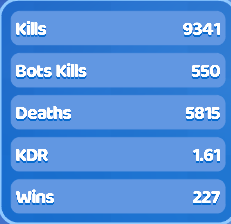
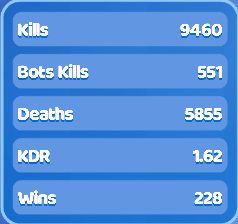
Added kps, updated Bam, Waris

Changed region(s): [[0.0, 0.0, 1.0, 1.0]]

diff --git a/index.html b/index.html
@@ -30,11 +30,11 @@
             <div class="number color2">2.</div>
             <div class="box color2"><a href="Images/Screenshots/Waris Ja.png" class="lightbox_trigger"><i class="fas fa-camera"></i></a></div>
             <div class="name color2">Waris Ja</div>
-            <div class="box color2">2.92</div>
-            <div class="box color2">25,143</div>
-            <div class="box color2">411</div>
-            <div class="box color2">8,621</div>
-            <div class="box color2">2,028</div>
+            <div class="box color2">3.00</div>
+            <div class="box color2">29,276</div>
+            <div class="box color2">421</div>
+            <div class="box color2">9,771</div>
+            <div class="box color2">2,335</div>
           
             <div class="number color1">3.</div>
             <div class="box color1"><a href="Images/Screenshots/Alexander.png" class="lightbox_trigger"><i class="fas fa-camera"></i></a></div>
@@ -127,178 +127,187 @@
             <div class="box color2">859</div>
 
             <div class="number color1">13.</div>
-            <div class="box color1"><a href="Images/Screenshots/Player3480.png" class="lightbox_trigger"><i class="fas fa-camera"></i></a></div>
-            <div class="name color1">Player3480</div>
-            <div class="box color1">1.85</div>
-            <div class="box color1">13,223</div>
-            <div class="box color1">501</div>
-            <div class="box color1">7,166</div>
-            <div class="box color1">654</div>
+            <div class="box color1"><a href="Images/Screenshots/kps.png" class="lightbox_trigger"><i class="fas fa-camera"></i></a></div>
+            <div class="name color1">kps</div>
+            <div class="box color1">1.93</div>
+            <div class="box color1">11,613</div>
+            <div class="box color1">141</div>
+            <div class="box color1">6,007</div>
+            <div class="box color1">770</div>
 
             <div class="number color2">14.</div>
-            <div class="box color2"><a href="Images/Screenshots/Kolider.png" class="lightbox_trigger"><i class="fas fa-camera"></i></a></div>
-            <div class="name color2">Kolider</div>
-            <div class="box color2">1.79</div>
-            <div class="box color2">8,020</div>
-            <div class="box color2">2,282</div>
-            <div class="box color2">4,490</div>
-            <div class="box color2">728</div>
+            <div class="box color2"><a href="Images/Screenshots/Player3480.png" class="lightbox_trigger"><i class="fas fa-camera"></i></a></div>
+            <div class="name color2">Player3480</div>
+            <div class="box color2">1.85</div>
+            <div class="box color2">13,223</div>
+            <div class="box color2">501</div>
+            <div class="box color2">7,166</div>
+            <div class="box color2">654</div>
 
             <div class="number color1">15.</div>
-            <div class="box color1"><a href="Images/Screenshots/Bowser.png" class="lightbox_trigger"><i class="fas fa-camera"></i></a></div>
-            <div class="name color1">Bowser</div>
-            <div class="box color1">1.67</div>
-            <div class="box color1">14,363</div>
-            <div class="box color1">7,688</div>
-            <div class="box color1">8,596</div>
-            <div class="box color1">979</div>
+            <div class="box color1"><a href="Images/Screenshots/Kolider.png" class="lightbox_trigger"><i class="fas fa-camera"></i></a></div>
+            <div class="name color1">Kolider</div>
+            <div class="box color1">1.79</div>
+            <div class="box color1">8,020</div>
+            <div class="box color1">2,282</div>
+            <div class="box color1">4,490</div>
+            <div class="box color1">728</div>
 
             <div class="number color2">16.</div>
-            <div class="box color2"><a href="Images/Screenshots/bhol.png" class="lightbox_trigger"><i class="fas fa-camera"></i></a></div>
-            <div class="name color2">bhol</div>
-            <div class="box color2">1.66</div>
-            <div class="box color2">19,412</div>
-            <div class="box color2">1,784</div>
-            <div class="box color2">11,716</div>
-            <div class="box color2">1,305</div>
+            <div class="box color2"><a href="Images/Screenshots/Bowser.png" class="lightbox_trigger"><i class="fas fa-camera"></i></a></div>
+            <div class="name color2">Bowser</div>
+            <div class="box color2">1.67</div>
+            <div class="box color2">14,363</div>
+            <div class="box color2">7,688</div>
+            <div class="box color2">8,596</div>
+            <div class="box color2">979</div>
 
             <div class="number color1">17.</div>
-            <div class="box color1"><a href="Images/Screenshots/NONAME.png" class="lightbox_trigger"><i class="fas fa-camera"></i></a></div>
-            <div class="name color1">NONAME</div>
-            <div class="box color1">1.65</div>
-            <div class="box color1">3,413</div>
-            <div class="box color1">276</div>
-            <div class="box color1">2,064</div>
-            <div class="box color1">246</div>
+            <div class="box color1"><a href="Images/Screenshots/bhol.png" class="lightbox_trigger"><i class="fas fa-camera"></i></a></div>
+            <div class="name color1">bhol</div>
+            <div class="box color1">1.66</div>
+            <div class="box color1">19,412</div>
+            <div class="box color1">1,784</div>
+            <div class="box color1">11,716</div>
+            <div class="box color1">1,305</div>
 
             <div class="number color2">18.</div>
-            <div class="box color2"><a href="Images/Screenshots/golu.png" class="lightbox_trigger"><i class="fas fa-camera"></i></a></div>
-            <div class="name color2">golu</div>
-            <div class="box color2">1.63</div>
-            <div class="box color2">22,268</div>
-            <div class="box color2">1,477</div>
-            <div class="box color2">13,637</div>
-            <div class="box color2">1,468</div>
+            <div class="box color2"><a href="Images/Screenshots/NONAME.png" class="lightbox_trigger"><i class="fas fa-camera"></i></a></div>
+            <div class="name color2">NONAME</div>
+            <div class="box color2">1.65</div>
+            <div class="box color2">3,413</div>
+            <div class="box color2">276</div>
+            <div class="box color2">2,064</div>
+            <div class="box color2">246</div>
 
             <div class="number color1">19.</div>
-            <div class="box color1"><a href="Images/Screenshots/BAM'erica.png" class="lightbox_trigger"><i class="fas fa-camera"></i></a></div>
-            <div class="name color1">BAM'erica</div>
-            <div class="box color1">1.61</div>
-            <div class="box color1">9,341</div>
-            <div class="box color1">550</div>
-            <div class="box color1">5,815</div>
-            <div class="box color1">227</div>
+            <div class="box color1"><a href="Images/Screenshots/golu.png" class="lightbox_trigger"><i class="fas fa-camera"></i></a></div>
+            <div class="name color1">golu</div>
+            <div class="box color1">1.63</div>
+            <div class="box color1">22,268</div>
+            <div class="box color1">1,477</div>
+            <div class="box color1">13,637</div>
+            <div class="box color1">1,468</div>
 
             <div class="number color2">20.</div>
-            <div class="box color2"><a href="Images/Screenshots/Avikatron.png" class="lightbox_trigger"><i class="fas fa-camera"></i></a></div>
-            <div class="name color2">Avikatron</div>
-            <div class="box color2">1.58</div>
-            <div class="box color2">1,054</div>
-            <div class="box color2">11</div>
-            <div class="box color2">666</div>
-            <div class="box color2">48</div>
+            <div class="box color2"><a href="Images/Screenshots/BAM'erica.png" class="lightbox_trigger"><i class="fas fa-camera"></i></a></div>
+            <div class="name color2">BAM'erica</div>
+            <div class="box color2">1.62</div>
+            <div class="box color2">9,460</div>
+            <div class="box color2">551</div>
+            <div class="box color2">5,855</div>
+            <div class="box color2">228</div>
 
             <div class="number color1">21.</div>
-            <div class="box color1"><a href="Images/Screenshots/seanysean.png" class="lightbox_trigger"><i class="fas fa-camera"></i></a></div>
-            <div class="name color1">seanysean</div>
-            <div class="box color1">1.55</div>
-            <div class="box color1">14,977</div>
-            <div class="box color1">489</div>
-            <div class="box color1">9,673</div>
-            <div class="box color1">746</div>
+            <div class="box color1"><a href="Images/Screenshots/Avikatron.png" class="lightbox_trigger"><i class="fas fa-camera"></i></a></div>
+            <div class="name color1">Avikatron</div>
+            <div class="box color1">1.58</div>
+            <div class="box color1">1,054</div>
+            <div class="box color1">11</div>
+            <div class="box color1">666</div>
+            <div class="box color1">48</div>
 
             <div class="number color2">22.</div>
-            <div class="box color2"><a href="Images/Screenshots/Drew.png" class="lightbox_trigger"><i class="fas fa-camera"></i></a></div>
-            <div class="name color2">Drew</div>
-            <div class="box color2">1.50</div>
-            <div class="box color2">4,616</div>
-            <div class="box color2">229</div>
-            <div class="box color2">3,078</div>
-            <div class="box color2">282</div>
+            <div class="box color2"><a href="Images/Screenshots/seanysean.png" class="lightbox_trigger"><i class="fas fa-camera"></i></a></div>
+            <div class="name color2">seanysean</div>
+            <div class="box color2">1.55</div>
+            <div class="box color2">14,977</div>
+            <div class="box color2">489</div>
+            <div class="box color2">9,673</div>
+            <div class="box color2">746</div>
 
             <div class="number color1">23.</div>
-            <div class="box color1"><a href="Images/Screenshots/SombreroCat1.png" class="lightbox_trigger"><i class="fas fa-camera"></i></a></div>
-            <div class="name color1">SombreroCat1</div>
-            <div class="box color1">1.48</div>
-            <div class="box color1">3,402</div>
-            <div class="box color1">567</div>
-            <div class="box color1">2,298</div>
-            <div class="box color1">243</div>
+            <div class="box color1"><a href="Images/Screenshots/Drew.png" class="lightbox_trigger"><i class="fas fa-camera"></i></a></div>
+            <div class="name color1">Drew</div>
+            <div class="box color1">1.50</div>
+            <div class="box color1">4,616</div>
+            <div class="box color1">229</div>
+            <div class="box color1">3,078</div>
+            <div class="box color1">282</div>
 
             <div class="number color2">24.</div>
-            <div class="box color2"><a href="Images/Screenshots/Junini.png" class="lightbox_trigger"><i class="fas fa-camera"></i></a></div>
-            <div class="name color2">Junini</div>
-            <div class="box color2">1.47</div>
-            <div class="box color2">23,855</div>
-            <div class="box color2">4,673</div>
-            <div class="box color2">16,279</div>
-            <div class="box color2">787</div>
+            <div class="box color2"><a href="Images/Screenshots/SombreroCat1.png" class="lightbox_trigger"><i class="fas fa-camera"></i></a></div>
+            <div class="name color2">SombreroCat1</div>
+            <div class="box color2">1.48</div>
+            <div class="box color2">3,402</div>
+            <div class="box color2">567</div>
+            <div class="box color2">2,298</div>
+            <div class="box color2">243</div>
 
             <div class="number color1">25.</div>
-            <div class="box color1"><a href="Images/Screenshots/Manush.png" class="lightbox_trigger"><i class="fas fa-camera"></i></a></div>
-            <div class="name color1">Manush</div>
-            <div class="box color1">1.44</div>
-            <div class="box color1">1,655</div>
-            <div class="box color1">6</div>
-            <div class="box color1">1,147</div>
-            <div class="box color1">45</div>
+            <div class="box color1"><a href="Images/Screenshots/Junini.png" class="lightbox_trigger"><i class="fas fa-camera"></i></a></div>
+            <div class="name color1">Junini</div>
+            <div class="box color1">1.47</div>
+            <div class="box color1">23,855</div>
+            <div class="box color1">4,673</div>
+            <div class="box color1">16,279</div>
+            <div class="box color1">787</div>
 
             <div class="number color2">26.</div>
-            <div class="box color2"><a href="Images/Screenshots/Prince of Darkness.png" class="lightbox_trigger"><i class="fas fa-camera"></i></a></div>
-            <div class="name color2">Prince of Darkness</div>
-            <div class="box color2">1.42</div>
-            <div class="box color2">2,612</div>
-            <div class="box color2">231</div>
-            <div class="box color2">1,835</div>
-            <div class="box color2">104</div>
+            <div class="box color2"><a href="Images/Screenshots/Manush.png" class="lightbox_trigger"><i class="fas fa-camera"></i></a></div>
+            <div class="name color2">Manush</div>
+            <div class="box color2">1.44</div>
+            <div class="box color2">1,655</div>
+            <div class="box color2">6</div>
+            <div class="box color2">1,147</div>
+            <div class="box color2">45</div>
 
             <div class="number color1">27.</div>
-            <div class="box color1"><a href="Images/Screenshots/ZePiggman.png" class="lightbox_trigger"><i class="fas fa-camera"></i></a></div>
-            <div class="name color1">ZePiggman</div>
-            <div class="box color1">1.31</div>
-            <div class="box color1">4,880</div>
-            <div class="box color1">110</div>
-            <div class="box color1">3,726</div>
-            <div class="box color1">256</div>
+            <div class="box color1"><a href="Images/Screenshots/Prince of Darkness.png" class="lightbox_trigger"><i class="fas fa-camera"></i></a></div>
+            <div class="name color1">Prince of Darkness</div>
+            <div class="box color1">1.42</div>
+            <div class="box color1">2,612</div>
+            <div class="box color1">231</div>
+            <div class="box color1">1,835</div>
+            <div class="box color1">104</div>
 
             <div class="number color2">28.</div>
-            <div class="box color2"><a href="Images/Screenshots/KI123NG.png" class="lightbox_trigger"><i class="fas fa-camera"></i></a></div>
-            <div class="name color2">KI123NG</div>
-            <div class="box color2">1.30</div>
-            <div class="box color2">4,894</div>
-            <div class="box color2">118</div>
-            <div class="box color2">3,765</div>
-            <div class="box color2">217</div>
+            <div class="box color2"><a href="Images/Screenshots/ZePiggman.png" class="lightbox_trigger"><i class="fas fa-camera"></i></a></div>
+            <div class="name color2">ZePiggman</div>
+            <div class="box color2">1.31</div>
+            <div class="box color2">4,880</div>
+            <div class="box color2">110</div>
+            <div class="box color2">3,726</div>
+            <div class="box color2">256</div>
 
             <div class="number color1">29.</div>
-            <div class="box color1"><a href="Images/Screenshots/IcyPro.png" class="lightbox_trigger"><i class="fas fa-camera"></i></a></div>
-            <div class="name color1">IcyPro</div>
-            <div class="box color1">1.23</div>
-            <div class="box color1">9,135</div>
-            <div class="box color1">870</div>
-            <div class="box color1">7,434</div>
-            <div class="box color1">575</div>
+            <div class="box color1"><a href="Images/Screenshots/KI123NG.png" class="lightbox_trigger"><i class="fas fa-camera"></i></a></div>
+            <div class="name color1">KI123NG</div>
+            <div class="box color1">1.30</div>
+            <div class="box color1">4,894</div>
+            <div class="box color1">118</div>
+            <div class="box color1">3,765</div>
+            <div class="box color1">217</div>
 
             <div class="number color2">30.</div>
-            <div class="box color2"><a href="Images/Screenshots/Supremo.png" class="lightbox_trigger"><i class="fas fa-camera"></i></a></div>
-            <div class="name color2">Supremo</div>
-            <div class="box color2">1.22</div>
-            <div class="box color2">6,464</div>
-            <div class="box color2">784</div>
-            <div class="box color2">5,316</div>
-            <div class="box color2">451</div>
+            <div class="box color2"><a href="Images/Screenshots/IcyPro.png" class="lightbox_trigger"><i class="fas fa-camera"></i></a></div>
+            <div class="name color2">IcyPro</div>
+            <div class="box color2">1.23</div>
+            <div class="box color2">9,135</div>
+            <div class="box color2">870</div>
+            <div class="box color2">7,434</div>
+            <div class="box color2">575</div>
 
             <div class="number color1">31.</div>
-            <div class="box color1"><a href="Images/Screenshots/2Fast2Furious.jpg" class="lightbox_trigger"><i class="fas fa-camera"></i></a></div>
-            <div class="name color1">2Fast2Furious</div>
-            <div class="box color1">1.08</div>
-            <div class="box color1">1,754</div>
-            <div class="box color1">77</div>
-            <div class="box color1">1,617</div>
-            <div class="box color1">94</div>
+            <div class="box color1"><a href="Images/Screenshots/Supremo.png" class="lightbox_trigger"><i class="fas fa-camera"></i></a></div>
+            <div class="name color1">Supremo</div>
+            <div class="box color1">1.22</div>
+            <div class="box color1">6,464</div>
+            <div class="box color1">784</div>
+            <div class="box color1">5,316</div>
+            <div class="box color1">451</div>
+
+            <div class="number color2">32.</div>
+            <div class="box color2"><a href="Images/Screenshots/2Fast2Furious.jpg" class="lightbox_trigger"><i class="fas fa-camera"></i></a></div>
+            <div class="name color2">2Fast2Furious</div>
+            <div class="box color2">1.08</div>
+            <div class="box color2">1,754</div>
+            <div class="box color2">77</div>
+            <div class="box color2">1,617</div>
+            <div class="box color2">94</div>
         </div>
 
-        <div id="update">Last updated: 3/19/2021</div>
+        <div id="update">Last updated: 3/21/2021</div>
 
         <p>To be included in the leaderboard, or to update your stats, please DM haedcase 
             <a href="http://discordapp.com/users/696072046374813776"><i class="fab fa-discord" id="discordLink"></i></a> 
